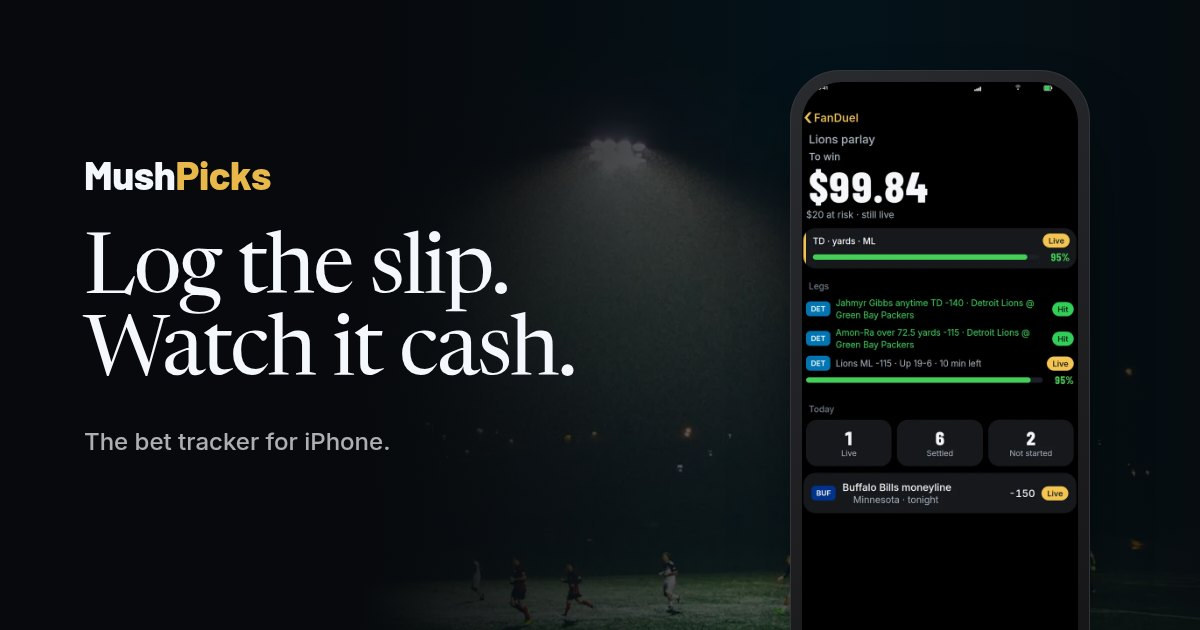
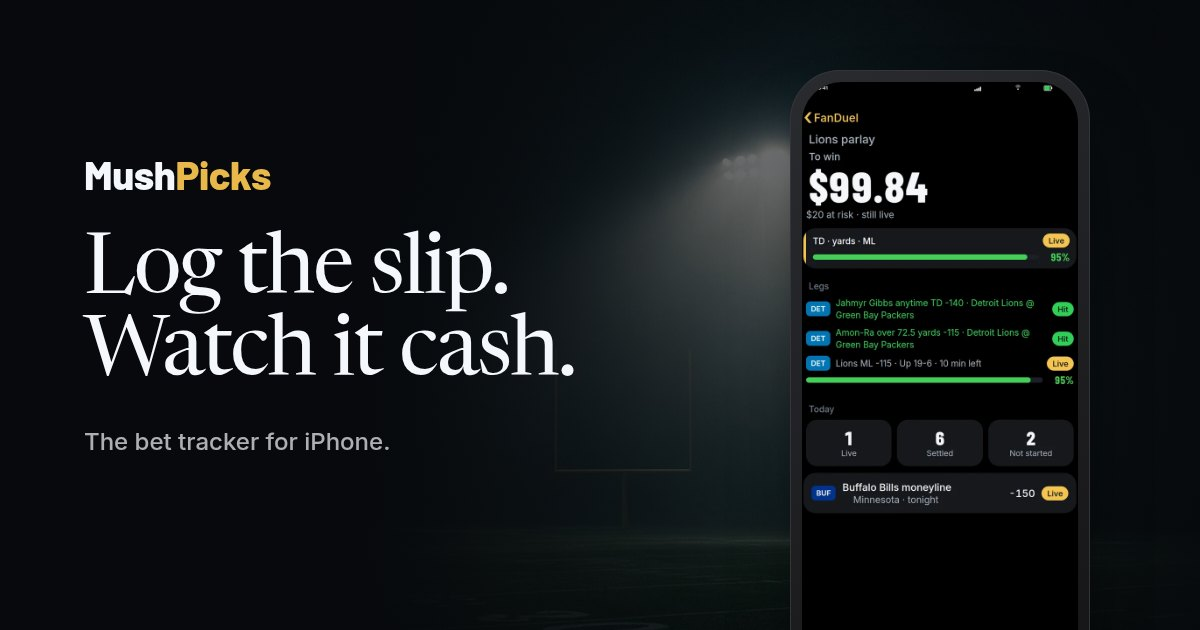
Football hero background, Play of the Day section with unit scale and how-we-find-the-edge steps

Changed region(s): [[0.4625, 0.181, 0.6783, 0.5429], [0.4317, 0.9048, 0.6783, 1.0]]

diff --git a/styles.css b/styles.css
@@ -27,9 +27,9 @@ a{color:inherit;text-decoration:none}
 /* hero */
 .hero{position:relative;min-height:100svh;display:flex;flex-direction:column;align-items:center;overflow:hidden;padding:clamp(120px,20vh,200px) 24px 0;text-align:center;isolation:isolate}
 .hero-bg{position:absolute;inset:0;z-index:-1;background:
-  linear-gradient(180deg,rgba(7,9,12,.35) 0%,rgba(7,9,12,.15) 30%,rgba(7,9,12,.55) 62%,var(--bg) 96%),
-  radial-gradient(120% 70% at 50% 0%,transparent 40%,rgba(7,9,12,.7) 100%),
-  url(img/night.webp) center 12%/cover no-repeat;}
+  linear-gradient(180deg,rgba(7,9,12,.45) 0%,rgba(7,9,12,.2) 28%,rgba(7,9,12,.35) 60%,rgba(7,9,12,.8) 86%,var(--bg) 100%),
+  radial-gradient(70% 55% at 50% 38%,rgba(7,9,12,.55) 0%,transparent 70%),
+  url(img/football-night.webp) 50% 55%/cover no-repeat;}
 .hero-copy{position:relative;z-index:2;display:flex;flex-direction:column;align-items:center;max-width:760px}
 h1{font:400 clamp(46px,7.4vw,92px)/.98 var(--display);letter-spacing:-.025em;margin:0;text-wrap:balance;text-shadow:0 2px 30px rgba(0,0,0,.45)}
 .lede{margin:22px 0 0;max-width:33rem;font-size:clamp(16px,1.5vw,18.5px);line-height:1.5;color:rgba(244,247,251,.74);letter-spacing:-.005em;text-wrap:pretty}
@@ -57,9 +57,9 @@ h1{font:400 clamp(46px,7.4vw,92px)/.98 var(--display);letter-spacing:-.025em;mar
 /* sections */
 section h2{font:400 clamp(34px,4.6vw,56px)/1.04 var(--display);letter-spacing:-.02em;margin:0;text-wrap:balance}
 .kicker{margin:0 0 14px;font-size:13px;font-weight:600;letter-spacing:.08em;text-transform:uppercase;color:var(--gold)}
-.features{padding:clamp(80px,12vw,140px) 0 clamp(60px,8vw,100px)}
+.features{padding:clamp(80px,11vw,130px) 0 clamp(60px,8vw,100px);border-top:1px solid var(--line)}
 .features .wrap>h2,.features .kicker{text-align:center}
-.grid{margin-top:clamp(44px,6vw,72px);display:grid;grid-template-columns:repeat(4,1fr);gap:28px}
+.grid{margin-top:clamp(44px,6vw,72px);display:grid;grid-template-columns:repeat(3,1fr);gap:40px;max-width:920px;margin-left:auto;margin-right:auto}
 .feature{display:flex;flex-direction:column;align-items:center;text-align:center}
 .feature .phone{--w:min(100%,236px)}
 .feature .phone.sm{width:236px;max-width:100%;--w:236px}
@@ -94,15 +94,55 @@ section h2{font:400 clamp(34px,4.6vw,56px)/1.04 var(--display);letter-spacing:-.
 .rg a{color:var(--ink);font-weight:500}
 .legal{margin:10px 0 0;font-size:12px;color:var(--dim)}
 
+
+/* play of the day */
+.potd{position:relative;padding:clamp(80px,11vw,150px) 0 clamp(80px,10vw,140px);overflow:hidden}
+.potd-grid{display:grid;grid-template-columns:minmax(0,1fr) minmax(0,1.05fr);align-items:center;gap:clamp(40px,7vw,110px);max-width:1080px}
+.potd-phone{position:relative;display:flex;justify-content:center}
+.potd-glow{position:absolute;left:50%;top:50%;width:620px;height:620px;transform:translate(-50%,-50%);border-radius:50%;background:radial-gradient(closest-side,rgba(232,184,74,.20),rgba(232,184,74,.06) 55%,transparent 75%);filter:blur(10px);pointer-events:none}
+.phone.lg{--w:360px}
+.potd-copy h2{font-size:clamp(42px,4.6vw,62px);line-height:.98;letter-spacing:-.028em}
+.potd-copy .body{margin:24px 0 0;max-width:31rem;font-size:clamp(16px,1.4vw,18px);line-height:1.55;color:rgba(244,247,251,.76)}
+.units{margin:34px 0 0;max-width:31rem;padding:22px 22px 20px;border-radius:20px;background:linear-gradient(180deg,rgba(255,255,255,.045),rgba(255,255,255,.015));box-shadow:inset 0 0 0 1px var(--line)}
+.scale{display:grid;grid-template-columns:repeat(5,1fr);gap:8px}
+.u{display:flex;align-items:center;justify-content:center;height:40px;border-radius:999px;font-size:15px;font-weight:600;letter-spacing:-.01em;font-variant-numeric:tabular-nums}
+.u1,.u2,.u3{background:var(--gold);color:#1a1305}
+.u1{background:rgba(232,184,74,.55)}.u2{background:rgba(232,184,74,.78)}
+.u4,.u5{background:transparent;color:var(--gold);box-shadow:inset 0 0 0 1px rgba(232,184,74,.5)}
+.u5{box-shadow:inset 0 0 0 1px rgba(232,184,74,.3);color:rgba(232,184,74,.75)}
+.scale-key{display:grid;grid-template-columns:3fr 2fr;gap:8px;margin-top:10px;font-size:12px;font-weight:500;letter-spacing:.02em;color:var(--mute)}
+.scale-key span{padding-left:4px;border-top:1px solid rgba(255,255,255,.12);padding-top:7px}
+.scale-key span:last-child{border-top-style:dashed}
+.units p{margin:16px 0 0;font-size:14.5px;line-height:1.55;color:rgba(244,247,251,.72)}
+.closer-line{margin:28px 0 0;max-width:31rem;font:400 clamp(21px,2vw,25px)/1.3 var(--display);letter-spacing:-.01em;color:var(--ink)}
+.potd-copy .small{margin:16px 0 0;font-size:12.5px;color:var(--dim)}
+@media (max-width:860px){
+  .potd-grid{grid-template-columns:1fr;gap:56px}
+  .potd-copy{order:-1}
+  .phone.lg{--w:min(74vw,320px)}
+  .potd-glow{width:440px;height:440px}
+}
+
+.edge{max-width:1080px;margin-top:clamp(72px,9vw,120px)}
+.edge-title{margin:0;font:400 clamp(28px,3vw,38px)/1.1 var(--display);letter-spacing:-.02em}
+.steps{list-style:none;margin:28px 0 0;padding:0;display:grid;grid-template-columns:repeat(4,1fr);gap:28px}
+.steps li{padding-top:20px;border-top:1px solid rgba(255,255,255,.12)}
+.steps .n{display:block;font-size:13px;font-weight:600;letter-spacing:.06em;color:var(--gold);font-variant-numeric:tabular-nums}
+.steps h4{margin:12px 0 8px;font-size:17px;font-weight:600;letter-spacing:-.015em}
+.steps p{margin:0;font-size:14.5px;line-height:1.55;color:var(--mute)}
+@media (max-width:860px){.steps{grid-template-columns:1fr 1fr;row-gap:36px}}
+@media (max-width:560px){.steps{grid-template-columns:1fr;gap:26px}}
+
 /* reveal */
 .js .reveal{opacity:0;transform:translateY(18px);transition:opacity .8s cubic-bezier(.2,.8,.2,1),transform .8s cubic-bezier(.2,.8,.2,1)}
 .js .reveal.in{opacity:1;transform:none}
 .grid .feature:nth-child(2){transition-delay:.08s}.grid .feature:nth-child(3){transition-delay:.16s}.grid .feature:nth-child(4){transition-delay:.24s}
 
 @media (max-width:980px){
-  .grid{grid-template-columns:repeat(2,1fr);row-gap:64px}
+  .grid{gap:24px}
 }
 @media (max-width:640px){
+  .hero-bg{background-position:0 0,0 0,9% 50%}
   .wrap{padding:0 20px}
   .nav-row{height:58px}
   .wordmark{font-size:21px}

diff --git a/index.html b/index.html
@@ -63,6 +63,41 @@
     </div>
   </section>
 
+  <section class="potd" id="play-of-the-day">
+    <div class="wrap potd-grid">
+      <div class="potd-phone reveal">
+        <div class="potd-glow" aria-hidden="true"></div>
+        <div class="phone lg">
+          <span class="btn b1"></span><span class="btn b2"></span><span class="btn b3"></span><span class="btn b4"></span>
+          <div class="screen"><img src="img/potd.webp" width="660" height="1431" alt="Play of the Day in MushPicks: the Pick Desk's play with the model's fair price, the book's price and the edge" loading="lazy"><span class="island"></span></div>
+        </div>
+      </div>
+      <div class="potd-copy">
+        <p class="kicker reveal">Play of the Day</p>
+        <h2 class="reveal">One play.<br>Our biggest edge.</h2>
+        <p class="body reveal">Every day, the MushPicks Pick Desk puts its single strongest play in front of you. Our model scans the board, compares its own numbers to the market, and picks the spot where it sees the biggest edge.</p>
+        <div class="units reveal">
+          <div class="scale" role="img" aria-label="Unit scale from 1 to 5 units. 1 to 3 units are most common; 4 and 5 units are rare.">
+            <span class="u u1">1u</span><span class="u u2">2u</span><span class="u u3">3u</span><span class="u u4">4u</span><span class="u u5">5u</span>
+          </div>
+          <div class="scale-key" aria-hidden="true"><span>Most days</span><span>Rare</span></div>
+          <p>Each play comes with a suggested size from 1 to 5 units, and the size follows how big the edge is. Most days it's 1 to 3 units, and 4 or 5 units are saved for the rare spots where the gap is huge.</p>
+        </div>
+        <p class="closer-line reveal">You get the pick, the units, and the reason behind it. Then you decide.</p>
+        <p class="small reveal">Model picks, not guarantees. 21+. Bet responsibly.</p>
+      </div>
+    </div>
+    <div class="wrap edge">
+      <h3 class="edge-title reveal">How we find the edge</h3>
+      <ol class="steps">
+        <li class="reveal"><span class="n">01</span><h4>We set our own price.</h4><p>For every game, our model works out how likely each side is from each team's last five games: points scored, points allowed, and the margin between them. Player props use the player's own recent game logs.</p></li>
+        <li class="reveal"><span class="n">02</span><h4>We take the vig out.</h4><p>We strip the built-in cut out of the prices at four or more sportsbooks and blend them into the real odds the market is implying.</p></li>
+        <li class="reveal"><span class="n">03</span><h4>We find the gap.</h4><p>When our price beats the market's by 3 percentage points or more, that's an edge. The bigger the gap, the more units we suggest. On a day when nothing clears that bar, the play is marked lower conviction.</p></li>
+        <li class="reveal"><span class="n">04</span><h4>We only play real prices.</h4><p>We skip anything priced worse than -170, so you're never laying big juice for small returns.</p></li>
+      </ol>
+    </div>
+  </section>
+
   <section class="features" id="features">
     <div class="wrap">
       <p class="kicker reveal">How it works</p>
@@ -82,11 +117,6 @@
           <div class="phone sm"><div class="screen"><img src="img/season.webp" width="660" height="1431" alt="The MushPicks calendar with green and red days for the month" loading="lazy"><span class="island"></span></div></div>
           <h3>Your season, in color</h3>
           <p>Green days and red days on one calendar, with your profit by day, month and year.</p>
-        </article>
-        <article class="feature reveal">
-          <div class="phone sm"><div class="screen"><img src="img/potd.webp" width="660" height="1431" alt="Play of the Day from the Pick Desk, showing the model's fair price next to the book's price" loading="lazy"><span class="island"></span></div></div>
-          <h3>Play of the Day</h3>
-          <p>From the Pick Desk: the model's biggest edge against the no-vig market that day, with the numbers beside it. A sample, not a promise.</p>
         </article>
       </div>
     </div>
